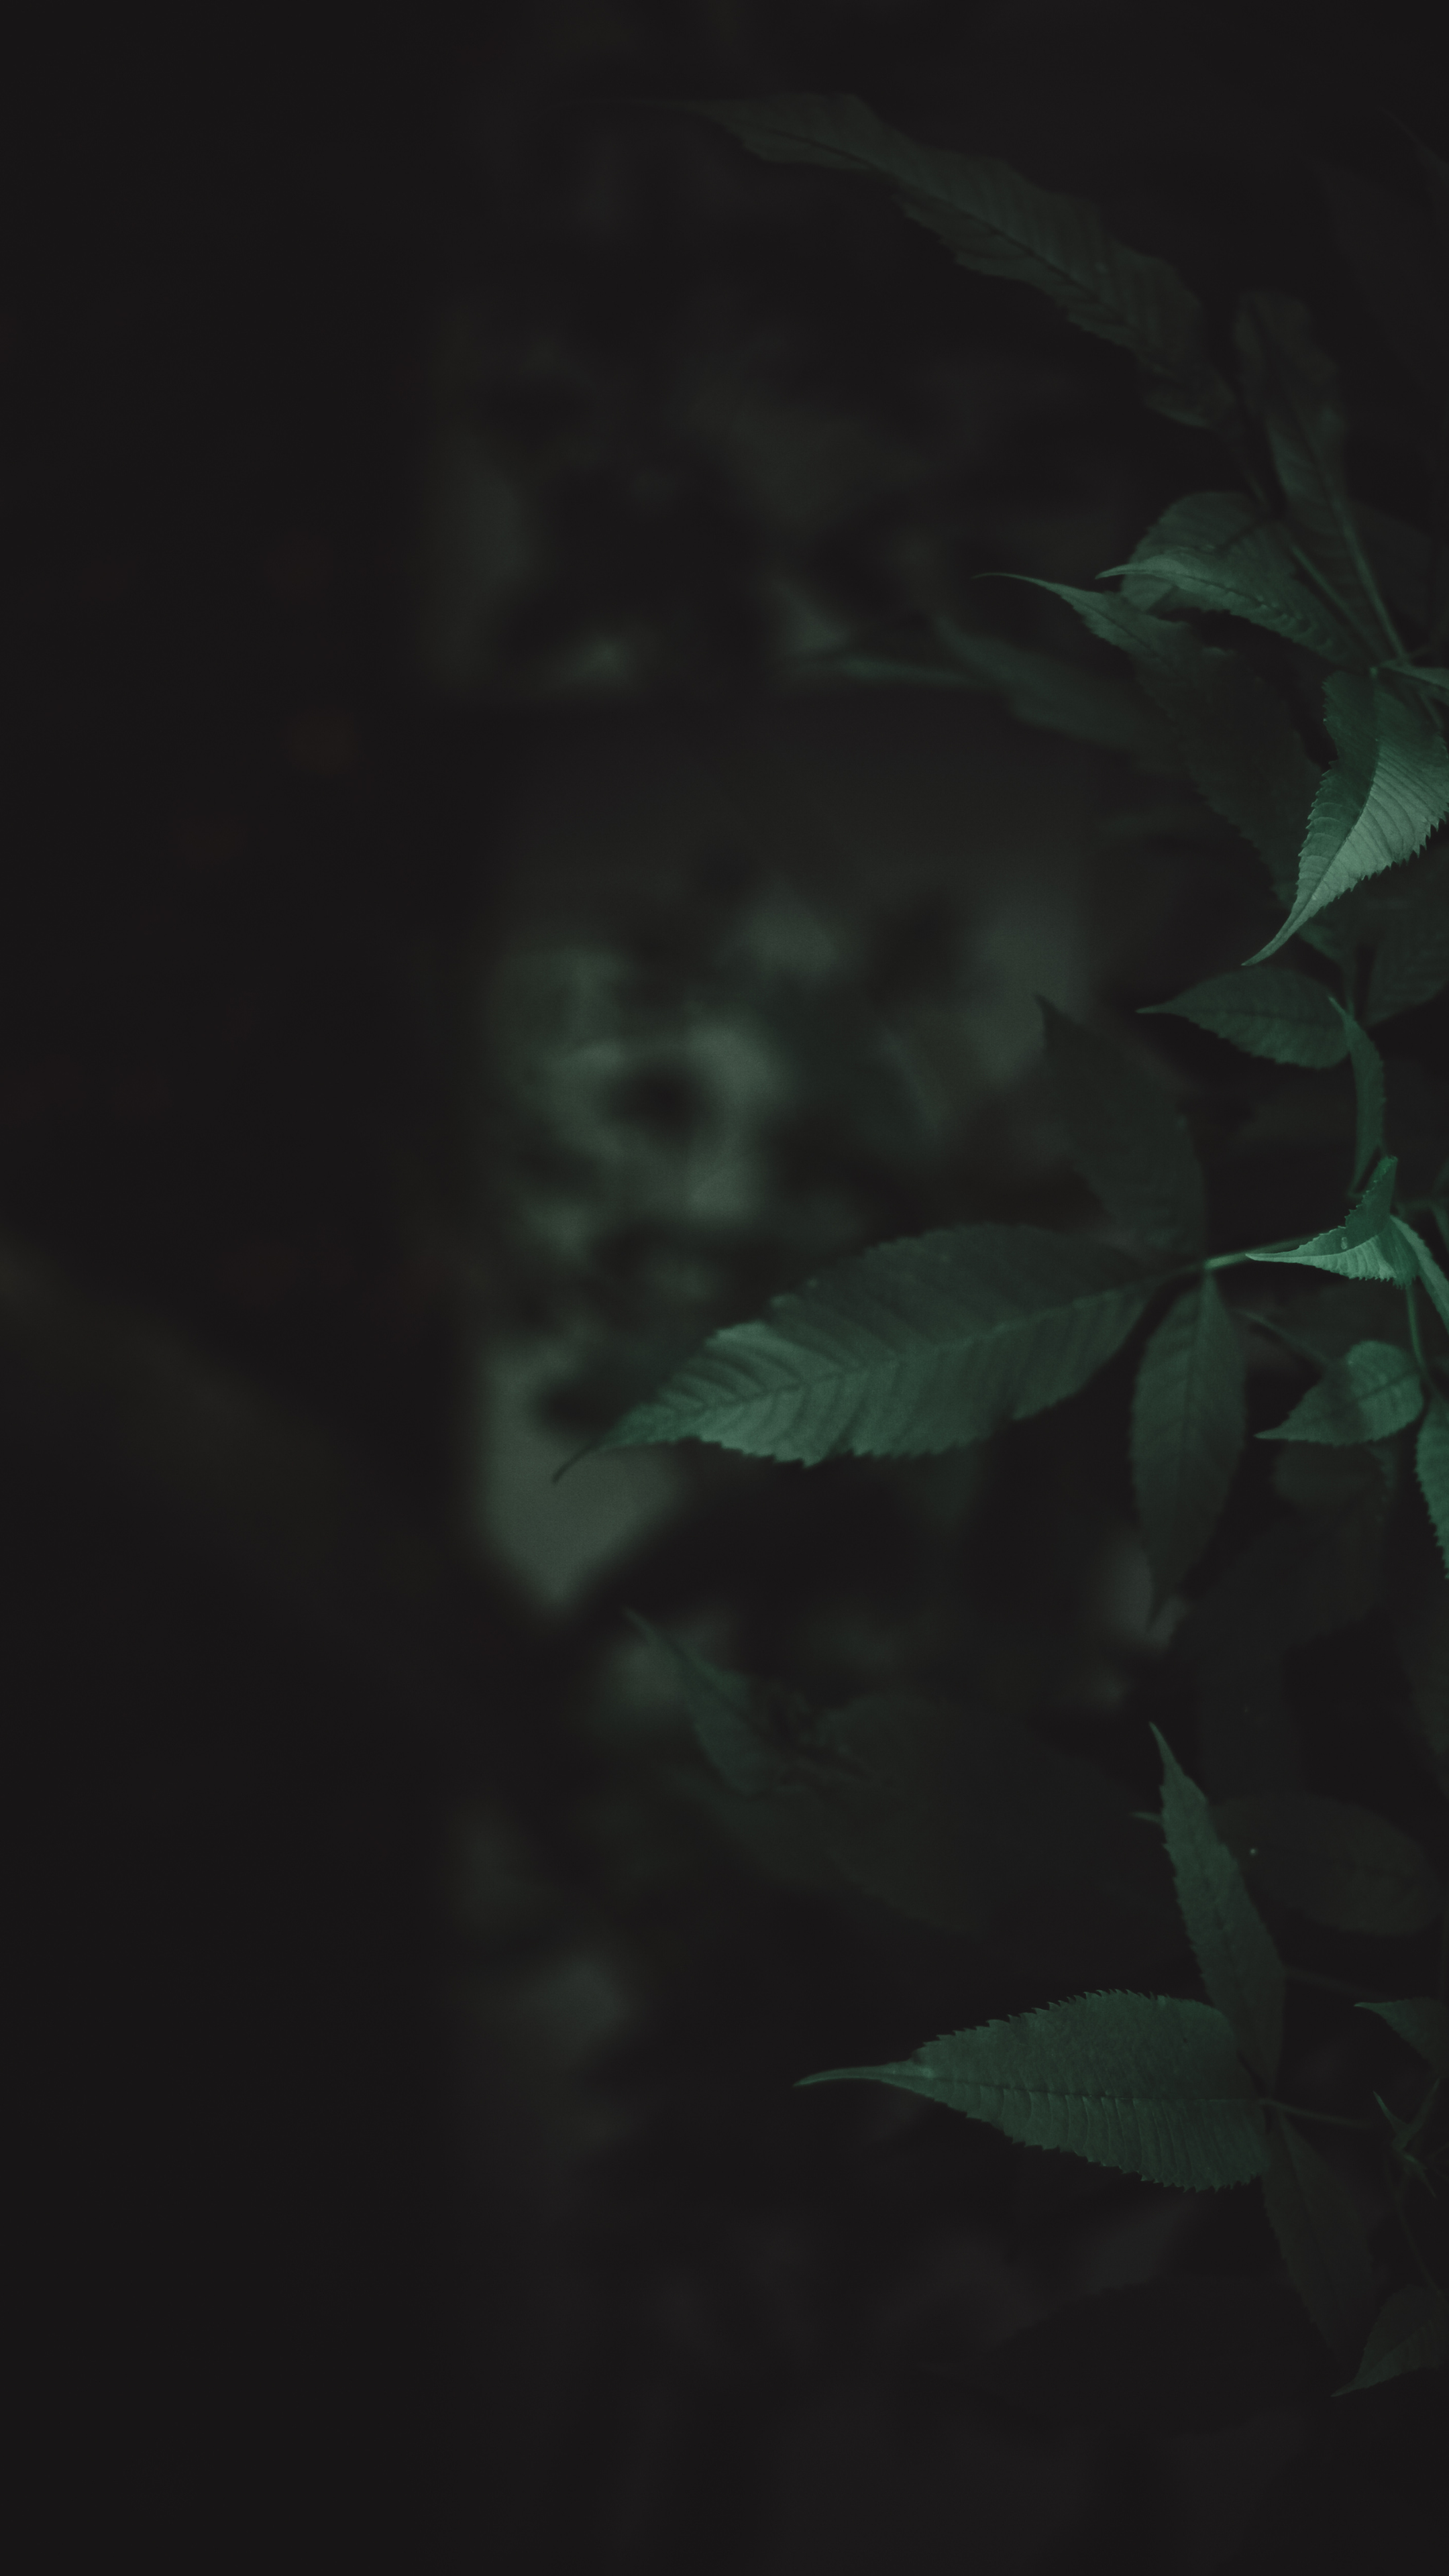
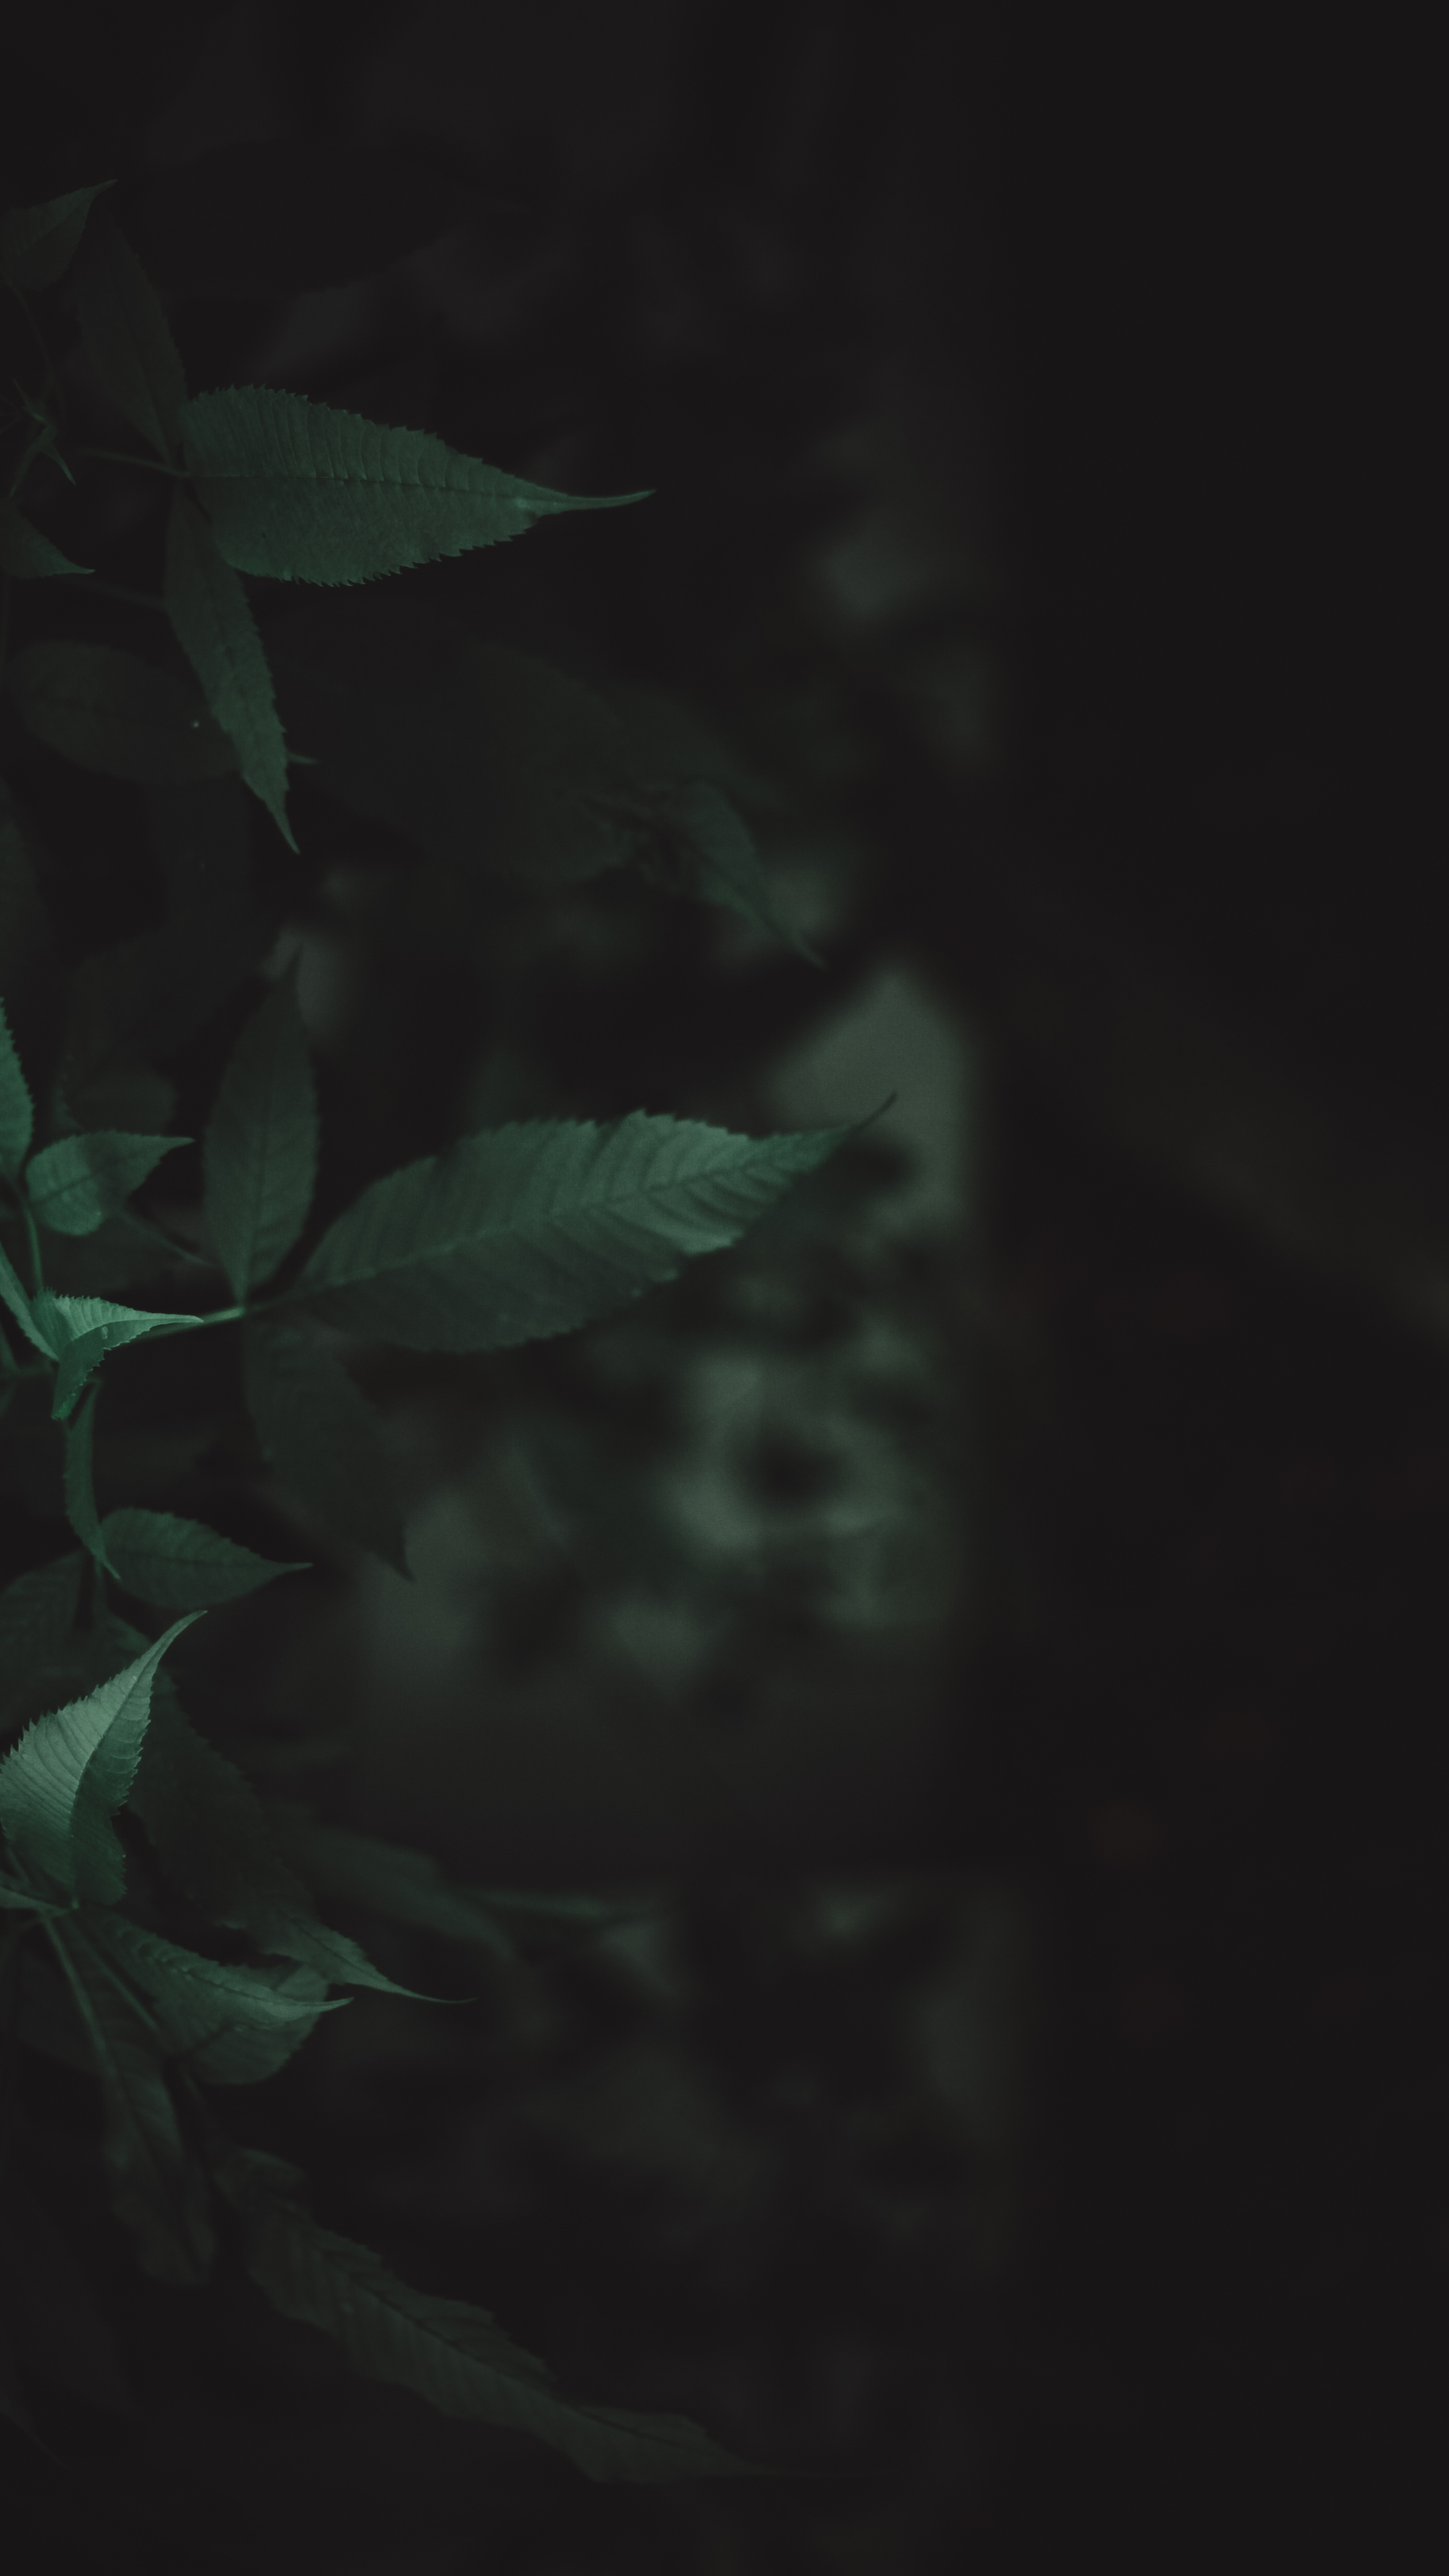
Agregue modificaciones

diff --git a/index.html b/index.html
@@ -24,7 +24,7 @@
                     <img src="img/instagram.png" alt="" />
                   </div>
                 </a>
-            <a href="#">
+            <a href="https://www.facebook.com/profile.php?id=61558876637764">
               <div class="social">
                 <img src="img/facebook.png" alt="" />
               </div>
@@ -32,21 +32,6 @@
             <a href="https://wa.me/393450423218">
               <div class="social">
                 <img src="img/wp.png" alt="" />
-              </div>
-            </a>
-            <a href="https://github.com/anabellabertola">
-              <div class="social">
-                <img src="img/github.png" alt="" />
-              </div>
-            </a>
-            <a href="https://www.linkedin.com/in/anabella-bertola-591634277/">
-              <div class="social">
-                <img src="img/linkedin.png" alt="" />
-              </div>
-            </a>
-            <a href="https://www.behance.net/anabellabertola">
-              <div class="social">
-                <img src="img/behance.png" alt="" />
               </div>
             </a>
           </div>
@@ -173,6 +158,7 @@
         <div class="box">
           <img class="img-4" src="img/med1.png" alt="">
           <h2>CHATBOT</h2>
+          <p>(EXTRA)</p>
           <p>ChatBot personalizado</p>
           <p>Atención al cliente 24/7</p>
           <p>Integracíón de IA</p>
@@ -299,20 +285,11 @@
             <a href="https://www.instagram.com/codepasss/">
               <img src="img/instagram.png" alt="" />
             </a>
-            <a href="#">
+            <a href="https://www.facebook.com/profile.php?id=61558876637764">
               <img src="img/facebook.png" alt="" />
             </a>
             <a href="https://wa.me/393450423218">
               <img src="img/wp.png" alt="" />
-            </a>
-            <a href="https://github.com/anabellabertola">
-              <img src="img/gitblanco.png" alt="" />
-            </a>
-            <a href="https://www.linkedin.com/in/anabella-bertola-591634277/">
-              <img src="img/linkedin.png" alt="" />
-            </a>
-            <a href="https://www.behance.net/anabellabertola">
-              <img src="img/behanceblanco.png" alt="" />
             </a>
           </div>
         </div>           

diff --git a/portfolio.html b/portfolio.html
@@ -25,7 +25,7 @@
                   <img src="img/instagram.png" alt="" />
                 </div>
               </a>
-              <a href="#">
+              <a href="https://www.facebook.com/profile.php?id=61558876637764">
                 <div class="social">
                   <img src="img/facebook.png" alt="" />
                 </div>
@@ -33,21 +33,6 @@
               <a href="https://wa.me/393450423218">
                 <div class="social">
                   <img src="img/wp.png" alt="" />
-                </div>
-              </a>
-              <a href="https://github.com/anabellabertola">
-                <div class="social">
-                  <img src="img/github.png" alt="" />
-                </div>
-              </a>
-              <a href="https://www.linkedin.com/in/anabella-bertola-591634277/">
-                <div class="social">
-                  <img src="img/linkedin.png" alt="" />
-                </div>
-              </a>
-              <a href="https://www.behance.net/anabellabertola">
-                <div class="social">
-                  <img src="img/behance.png" alt="" />
                 </div>
               </a>
             </div>
@@ -246,20 +231,11 @@
               <a href="https://www.instagram.com/codepasss/">
                 <img src="img/instagram.png" alt="" />
               </a>
-              <a href="#">
+              <a href="https://www.facebook.com/profile.php?id=61558876637764">
                 <img src="img/facebook.png" alt="" />
               </a>
               <a href="https://wa.me/393450423218">
                 <img src="img/wp.png" alt="" />
-              </a>
-              <a href="https://github.com/anabellabertola">
-                <img src="img/gitblanco.png" alt="" />
-              </a>
-              <a href="https://www.linkedin.com/in/anabella-bertola-591634277/">
-                <img src="img/linkedin.png" alt="" />
-              </a>
-              <a href="https://www.behance.net/anabellabertola">
-                <img src="img/behanceblanco.png" alt="" />
               </a>
             </div>
           </div>            

diff --git a/style.css b/style.css
@@ -6,10 +6,11 @@
 
 body {
     font-family: 'Roboto', 'Dancing Script';
-    background-image:  url("img/fondo.png");
+    background-image:  url("img/codefondo.png");
     background-repeat: no-repeat;
     background-position: center;
     background-size: cover;
+
 }
 
 .container {
